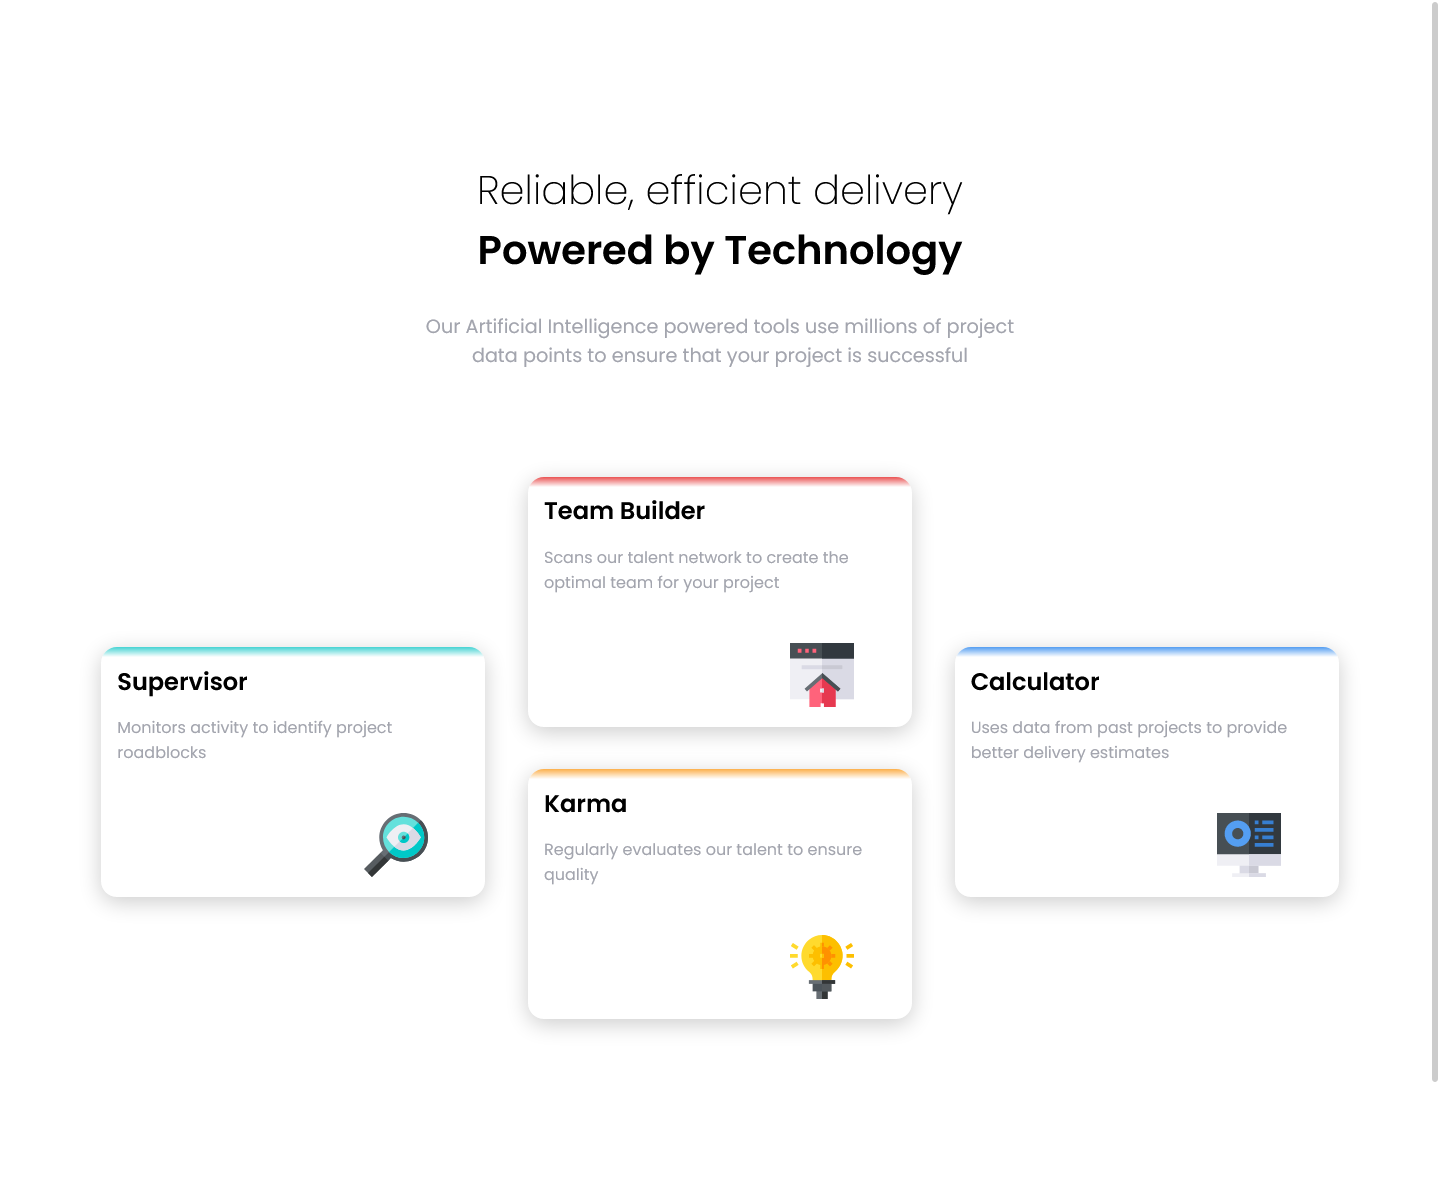
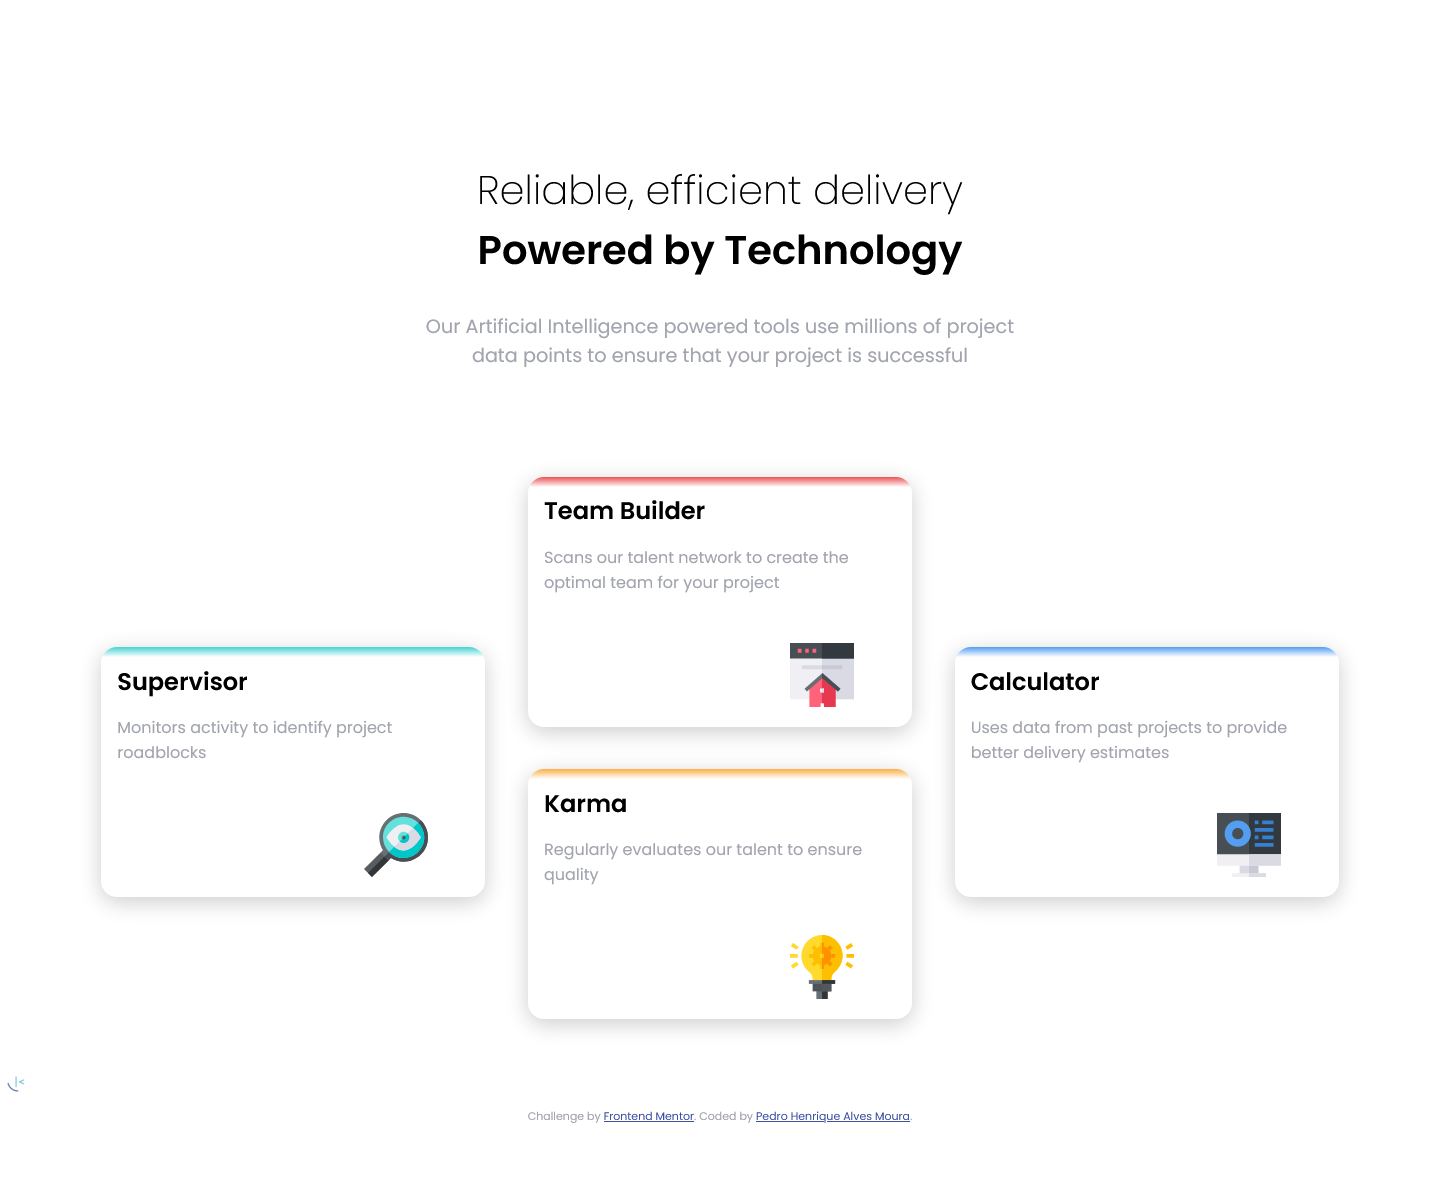
New footer's margin and desktop screenshot

diff --git a/four-card-feature-section-master/.history/css/style_20210601132133.css b/four-card-feature-section-master/.history/css/style_20210601132133.css
@@ -58,9 +58,7 @@
         left: 70%;
     }
 
-    footer {
-        margin-top: -150px;
-    }
+    
 
     /*
     ** Mobile - Cards - Format 

diff --git a/four-card-feature-section-master/.history/css/style_20210601132144.css b/four-card-feature-section-master/.history/css/style_20210601132144.css
@@ -59,7 +59,7 @@
     }
 
     footer {
-        margin-top: -150px;
+        margin-top: -200px;
     }
 
     /*

diff --git a/four-card-feature-section-master/.history/css/style_20210601132149.css b/four-card-feature-section-master/.history/css/style_20210601132149.css
@@ -59,7 +59,7 @@
     }
 
     footer {
-        margin-top: -150px;
+        margin-top: -100px;
     }
 
     /*

diff --git a/four-card-feature-section-master/.history/css/style_20210601132141.css b/four-card-feature-section-master/.history/css/style_20210601132141.css
@@ -59,7 +59,7 @@
     }
 
     footer {
-        margin-top: -150px;
+        margin-top: -
     }
 
     /*

diff --git a/four-card-feature-section-master/.history/css/style_20210601132140.css b/four-card-feature-section-master/.history/css/style_20210601132140.css
@@ -59,7 +59,7 @@
     }
 
     footer {
-        margin-top: -150px;
+        margin-top: 
     }
 
     /*

diff --git a/four-card-feature-section-master/.history/css/style_20210601132139.css b/four-card-feature-section-master/.history/css/style_20210601132139.css
@@ -59,7 +59,7 @@
     }
 
     footer {
-        margin-top: -150px;
+        margin-top
     }
 
     /*

diff --git a/four-card-feature-section-master/.history/css/style_20210601132138.css b/four-card-feature-section-master/.history/css/style_20210601132138.css
@@ -59,7 +59,7 @@
     }
 
     footer {
-        margin-top: -150px;
+        margin-
     }
 
     /*

diff --git a/four-card-feature-section-master/.history/css/style_20210601132137.css b/four-card-feature-section-master/.history/css/style_20210601132137.css
@@ -59,7 +59,7 @@
     }
 
     footer {
-        margin-top: -150px;
+        mar
     }
 
     /*
